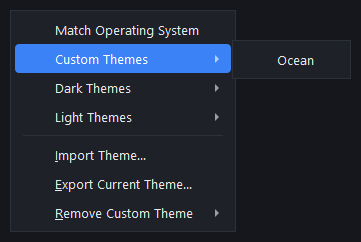
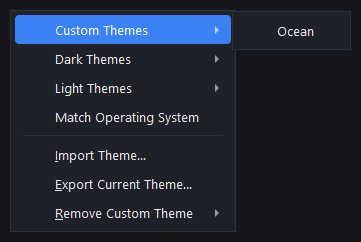
Theme menu: groups first, then Match Operating System; the preview ends when the pointer rests on a group's name. Window Opacity: one slider and Only While Recording or Playing

diff --git a/src/app/MainWindow.cpp b/src/app/MainWindow.cpp
@@ -234,11 +234,7 @@ MainWindow::MainWindow(Settings& s, bool hotkeys, QWidget* parent)
     connect(&m_model, &ActionModel::edited, this, [this] { setDirty(true); });
     m_backend->injector()->setScanCodesOnly(m_s.scanCodes);
     m_marker = new PositionMarker(this);
-    connect(qApp, &QGuiApplication::applicationStateChanged, this, [this](Qt::ApplicationState s) {
-        m_appActive = s == Qt::ApplicationActive;
-        updateMarker();
-        applyOpacity();
-    });
+    connect(qApp, &QGuiApplication::applicationStateChanged, this, [this] { updateMarker(); });
 
     // Size: remembered, or a comfortable size that fits the screen.
     if (m_s.geometry.isEmpty() || !restoreGeometry(m_s.geometry)) {
@@ -401,7 +397,7 @@ void MainWindow::buildMenus()
     m_themeGroup = new QActionGroup(this);
     m_themeGroup->setExclusive(true);
     theme->setToolTipsVisible(true);
-    addThemeAction(theme, QStringLiteral("Match Operating System"), QStringLiteral("system"));
+    // The groups (the entries that open a list) come first, then Match Operating System.
     m_customThemeMenu = theme->addMenu(themes::customGroup());   // shown once a theme has been imported
     for (const QString& g : themes::groups()) {
         QMenu* sub = theme->addMenu(g);
@@ -411,6 +407,7 @@ void MainWindow::buildMenus()
         std::sort(list.begin(), list.end(), [](auto* a, auto* b) { return a->name.compare(b->name, Qt::CaseInsensitive) < 0; });
         for (auto* t : list) addThemeAction(sub, t->name, t->key);
     }
+    addThemeAction(theme, QStringLiteral("Match Operating System"), QStringLiteral("system"));
     theme->addSeparator();
     QAction* importAct = theme->addAction(QStringLiteral("&Import Theme…"), this, [this] { importTheme(); });
     importAct->setToolTip(QStringLiteral("Adds a theme from a .json file: one exported from here, or a VS Code color theme. "
@@ -421,6 +418,13 @@ void MainWindow::buildMenus()
     rebuildCustomThemeMenus();
     connect(m_viewMenu, &QMenu::aboutToHide, this, [this] { endThemePreview(); });
     connect(theme, &QMenu::aboutToHide, this, [this] { endThemePreview(); });
+    // The pointer on something that isn't a theme (a group's name such as "Dark Themes", or Import Theme…): show the
+    // theme in use again. Otherwise the last theme the pointer passed over stayed previewed, and it looked as if
+    // pointing at "Dark Themes" had changed the theme.
+    connect(theme, &QMenu::hovered, this, [this](QAction* a) {
+        const bool isTheme = !a->menu() && m_themeGroup->actions().contains(a);
+        if (!isTheme && !m_themePreviewing.isEmpty() && m_themePreviewing != m_s.theme) previewTheme(m_s.theme);
+    });
     m_viewMenu->addSeparator();
     m_logAct = m_viewMenu->addAction(QStringLiteral("Show Activity &Log"));
     m_logAct->setCheckable(true);
@@ -442,83 +446,57 @@ void MainWindow::buildMenus()
         saveSettingsSoon();
     });
     QMenu* opacity = m_viewMenu->addMenu(QStringLiteral("Window &Opacity"));
-    opacity->setToolTipsVisible(true);
     {
-        // Normal level at the top; the two Fade options, with the Faded level right under them (greyed out until
-        // one of them is ticked). The window changes as a slider moves, so the level can be judged against what's
-        // behind it; moving the Faded slider shows the faded level for a moment.
-        const QStringList names = {QStringLiteral("Normal"), QStringLiteral("Faded")};
-        int labelWidth = 0;
-        for (const QString& n : names) labelWidth = qMax(labelWidth, QFontMetrics(font()).horizontalAdvance(n));
-        auto sliderRow = [&](const QString& text, int Settings::*field, const char* id, QSlider** out) {
-            auto* row = new QWidget;
-            auto* h = new QHBoxLayout(row);
-            h->setContentsMargins(26, 5, 14, 5);
-            h->setSpacing(10);
-            auto* label = new QLabel(text);
-            label->setMinimumWidth(labelWidth + 4);
-            auto* s = new QSlider(Qt::Horizontal);
-            s->setRange(30, 100);
-            s->setSingleStep(5);
-            s->setPageStep(10);
-            s->setMinimumWidth(170);
-            s->setValue(m_s.*field);
-            s->setProperty("testId", QString::fromLatin1(id));
-            auto* value = new QLabel(QStringLiteral("%1 %").arg(m_s.*field));
-            value->setMinimumWidth(QFontMetrics(font()).horizontalAdvance(QStringLiteral("100 %")) + 4);
-            value->setAlignment(Qt::AlignRight | Qt::AlignVCenter);
-            h->addWidget(label);
-            h->addWidget(s, 1);
-            h->addWidget(value);
-            connect(s, &QSlider::valueChanged, this, [this, field, value](int v) {
-                m_s.*field = v;
-                value->setText(QStringLiteral("%1 %").arg(v));
-                applyOpacity();
-                saveSettingsSoon();
-            });
-            auto* wa = new QWidgetAction(opacity);
-            wa->setDefaultWidget(row);
-            opacity->addAction(wa);
-            *out = s;
-            return row;
-        };
-        sliderRow(names[0], &Settings::windowOpacity, "opacitySlider", &m_opacitySlider);
-        opacity->addSeparator();
-        m_seeBusyAct = opacity->addAction(QStringLiteral("Fade While Recording or Playing"));
-        m_seeInactiveAct = opacity->addAction(QStringLiteral("Fade While Another Program Is in Front"));
-        m_fadedRow = sliderRow(names[1], &Settings::seeThroughOpacity, "seeThroughSlider", &m_seeThroughSlider);
-        // Moving the Faded slider by hand shows that level for a moment, even when no fade applies right now.
-        m_fadePreview.setSingleShot(true);
-        m_fadePreview.setInterval(1200);
-        connect(&m_fadePreview, &QTimer::timeout, this, [this] {
-            if (m_seeThroughSlider->isSliderDown()) return;   // still held: keep showing it until released
-            m_previewFade = false;
+        // One slider and one option. The window changes as the slider moves, so the level can be judged against
+        // what's behind it (also with the option on, for a moment, while the window would otherwise stay solid).
+        auto* row = new QWidget;
+        auto* h = new QHBoxLayout(row);
+        h->setContentsMargins(26, 5, 14, 5);
+        h->setSpacing(10);
+        m_opacitySlider = new QSlider(Qt::Horizontal);
+        m_opacitySlider->setRange(30, 100);
+        m_opacitySlider->setSingleStep(5);
+        m_opacitySlider->setPageStep(10);
+        m_opacitySlider->setMinimumWidth(170);
+        m_opacitySlider->setValue(m_s.windowOpacity);
+        m_opacitySlider->setProperty("testId", QStringLiteral("opacitySlider"));
+        auto* value = new QLabel(QStringLiteral("%1 %").arg(m_s.windowOpacity));
+        value->setMinimumWidth(QFontMetrics(font()).horizontalAdvance(QStringLiteral("100 %")) + 4);
+        value->setAlignment(Qt::AlignRight | Qt::AlignVCenter);
+        h->addWidget(new QLabel(QStringLiteral("Opacity")));
+        h->addWidget(m_opacitySlider, 1);
+        h->addWidget(value);
+        auto* wa = new QWidgetAction(opacity);
+        wa->setDefaultWidget(row);
+        opacity->addAction(wa);
+        m_opacityBusyAct = opacity->addAction(QStringLiteral("Only While Recording or Playing"));
+        m_opacityBusyAct->setCheckable(true);
+        m_opacityBusyAct->setChecked(m_s.opacityOnlyWhileBusy);
+        connect(m_opacityBusyAct, &QAction::toggled, this, [this](bool on) {
+            m_s.opacityOnlyWhileBusy = on;
+            applyOpacity();
+            saveSettingsSoon();
+        });
+        m_opacityPreview.setSingleShot(true);
+        m_opacityPreview.setInterval(1200);
+        connect(&m_opacityPreview, &QTimer::timeout, this, [this] {
+            if (m_opacitySlider->isSliderDown()) return;   // still held: keep showing it until released
+            m_previewOpacity = false;
             applyOpacity();
         });
-        auto showFaded = [this] {
-            m_previewFade = true;
-            m_fadePreview.start();
-            applyOpacity();
-        };
-        connect(m_seeThroughSlider, &QSlider::sliderPressed, this, showFaded);
-        connect(m_seeThroughSlider, &QSlider::sliderReleased, this, [this] { m_fadePreview.start(); });
-        connect(m_seeThroughSlider, &QSlider::valueChanged, this, [this, showFaded] {
-            if (m_seeThroughSlider->isSliderDown() || m_seeThroughSlider->hasFocus() || m_seeThroughSlider->underMouse()) showFaded();
-        });
-    }
-    const std::pair<QAction*, bool Settings::*> flags[] = {{m_seeBusyAct, &Settings::seeThroughBusy},
-                                                          {m_seeInactiveAct, &Settings::seeThroughInactive}};
-    for (const auto& [act, flag] : flags) {
-        act->setCheckable(true);
-        act->setChecked(m_s.*flag);
-        connect(act, &QAction::toggled, this, [this, flag](bool on) {
-            m_s.*flag = on;
-            m_fadedRow->setEnabled(m_s.seeThroughBusy || m_s.seeThroughInactive);
+        connect(m_opacitySlider, &QSlider::sliderReleased, this, [this] { m_opacityPreview.start(); });
+        connect(m_opacitySlider, &QSlider::valueChanged, this, [this, value](int v) {
+            m_s.windowOpacity = v;
+            value->setText(QStringLiteral("%1 %").arg(v));
+            // Moved by hand: show the level for a moment even if it only applies while recording or playing
+            if (m_opacitySlider->isSliderDown() || m_opacitySlider->hasFocus() || m_opacitySlider->underMouse()) {
+                m_previewOpacity = true;
+                m_opacityPreview.start();
+            }
             applyOpacity();
             saveSettingsSoon();
         });
     }
-    m_fadedRow->setEnabled(m_s.seeThroughBusy || m_s.seeThroughInactive);
     m_markerAct = m_viewMenu->addAction(QStringLiteral("&Mark Selected Step on Screen"));
     m_markerAct->setCheckable(true);
     m_markerAct->setChecked(m_s.showPosition);
@@ -536,9 +514,7 @@ void MainWindow::buildMenus()
         m_logAct->setChecked(true);
         for (QAction* a : {m_markerAct, m_previewAct}) { const QSignalBlocker b(a); a->setChecked(true); }
         m_opacitySlider->setValue(m_s.windowOpacity);   // also updates the value shown beside it
-        m_seeThroughSlider->setValue(m_s.seeThroughOpacity);
-        for (QAction* a : {m_seeBusyAct, m_seeInactiveAct}) { const QSignalBlocker b(a); a->setChecked(false); }
-        m_fadedRow->setEnabled(false);
+        { const QSignalBlocker b(m_opacityBusyAct); m_opacityBusyAct->setChecked(m_s.opacityOnlyWhileBusy); }
         applyOpacity();
         updateMarker();
         setWindowFlag(Qt::WindowStaysOnTopHint, false);
@@ -1381,10 +1357,10 @@ void MainWindow::removeCustomTheme(const QString& key)
 
 void MainWindow::applyOpacity()
 {
-    int pct = m_s.windowOpacity;
+    // With "Only While Recording or Playing" on, the window is solid unless something is running (or the slider is
+    // being moved, to show the level).
     const bool busy = m_state != State::Idle;
-    if (m_previewFade || (busy && m_s.seeThroughBusy) || (!m_appActive && m_s.seeThroughInactive))
-        pct = qMin(pct, m_s.seeThroughOpacity);
+    const int pct = (m_s.opacityOnlyWhileBusy && !busy && !m_previewOpacity) ? 100 : m_s.windowOpacity;
     if (qAbs(windowOpacity() - pct / 100.0) > 0.01) setWindowOpacity(pct / 100.0);
 }
 

diff --git a/src/app/Settings.cpp b/src/app/Settings.cpp
@@ -19,9 +19,7 @@ void fields(Settings& s, F&& f)
     f("detailed_log", s.detailedLog);
     f("always_on_top", s.alwaysOnTop);
     f("window_opacity", s.windowOpacity);
-    f("see_through_busy", s.seeThroughBusy);
-    f("see_through_inactive", s.seeThroughInactive);
-    f("see_through_opacity", s.seeThroughOpacity);
+    f("opacity_only_while_busy", s.opacityOnlyWhileBusy);
     f("custom_themes", s.customThemes);
     f("geometry", s.geometry);
     f("table_state", s.tableState);
@@ -103,7 +101,6 @@ bool Settings::load(const QString& path)
     shortestPauseMs = qBound(0, shortestPauseMs, 60000);
     pathDetail = qBound(0, pathDetail, 100);
     windowOpacity = qBound(30, windowOpacity, 100);
-    seeThroughOpacity = qBound(30, seeThroughOpacity, 100);
     static const QStringList kAfter = {QStringLiteral("nothing"), QStringLiteral("quit"), QStringLiteral("lock"), QStringLiteral("sleep"),
                                        QStringLiteral("logoff"), QStringLiteral("restart"), QStringLiteral("shutdown")};
     if (!kAfter.contains(afterPlayback)) afterPlayback = QStringLiteral("nothing");
@@ -130,9 +127,7 @@ void Settings::resetView()
     detailedLog = d.detailedLog;
     alwaysOnTop = d.alwaysOnTop;
     windowOpacity = d.windowOpacity;
-    seeThroughBusy = d.seeThroughBusy;
-    seeThroughInactive = d.seeThroughInactive;
-    seeThroughOpacity = d.seeThroughOpacity;
+    opacityOnlyWhileBusy = d.opacityOnlyWhileBusy;
     showPosition = d.showPosition;
     showPreview = d.showPreview;
     tableState.clear();
@@ -146,15 +141,13 @@ void Settings::resetOptions()
     const QString keepTheme = theme;
     const QStringList keepFolded = foldedCards;
     const bool keepLog = showLog, keepDetail = detailedLog, keepTop = alwaysOnTop;
-    const int keepOpacity = windowOpacity, keepSeeThrough = seeThroughOpacity;
-    const bool keepBusy = seeThroughBusy, keepInactive = seeThroughInactive;
+    const int keepOpacity = windowOpacity;
+    const bool keepOnlyBusy = opacityOnlyWhileBusy;
     const QStringList keepThemes = customThemes;
     const QByteArray keepGeo = geometry, keepTable = tableState;
     *this = d;
     windowOpacity = keepOpacity;
-    seeThroughOpacity = keepSeeThrough;
-    seeThroughBusy = keepBusy;
-    seeThroughInactive = keepInactive;
+    opacityOnlyWhileBusy = keepOnlyBusy;
     customThemes = keepThemes;
     recent = keepRecent;
     lastFolder = keepFolder;

diff --git a/src/app/MainWindow.h b/src/app/MainWindow.h
@@ -201,12 +201,10 @@ private:
     QList<QAction*> m_editActs;                  // need a selection and Idle
     QActionGroup* m_themeGroup = nullptr;
     QMenu *m_customThemeMenu = nullptr, *m_removeThemeMenu = nullptr;
-    QSlider *m_opacitySlider = nullptr, *m_seeThroughSlider = nullptr;   // View > Window Opacity: Normal, Faded
-    QWidget* m_fadedRow = nullptr;   // the Faded slider's row: greyed out until a Fade option is ticked
-    QTimer m_fadePreview;            // after the Faded slider moves: show that level for a moment
-    bool m_previewFade = false;
-    QAction *m_seeBusyAct = nullptr, *m_seeInactiveAct = nullptr;
-    bool m_appActive = true;   // another program is in front when false
+    QSlider* m_opacitySlider = nullptr;   // View > Window Opacity
+    QAction* m_opacityBusyAct = nullptr;  // ... > Only While Recording or Playing
+    QTimer m_opacityPreview;              // after the slider moves: show that level for a moment
+    bool m_previewOpacity = false;
     QString m_themePreviewing;
     QTimer m_themePreviewTimer;
     QTimer m_saveTimer;

diff --git a/src/app/Settings.h b/src/app/Settings.h
@@ -12,10 +12,8 @@ struct Settings {
     bool showLog = true;
     bool detailedLog = false;
     bool alwaysOnTop = false;
-    int windowOpacity = 100;          // percent
-    bool seeThroughBusy = false;      // View > Window Opacity > Fade While Recording or Playing
-    bool seeThroughInactive = false;  // ... > Fade While Another Program Is in Front
-    int seeThroughOpacity = 50;       // the Faded level (percent), while one of the two above applies
+    int windowOpacity = 100;            // percent (View > Window Opacity)
+    bool opacityOnlyWhileBusy = false;  // apply it only while recording or playing; solid otherwise
     QByteArray geometry;
     QByteArray tableState;
 
